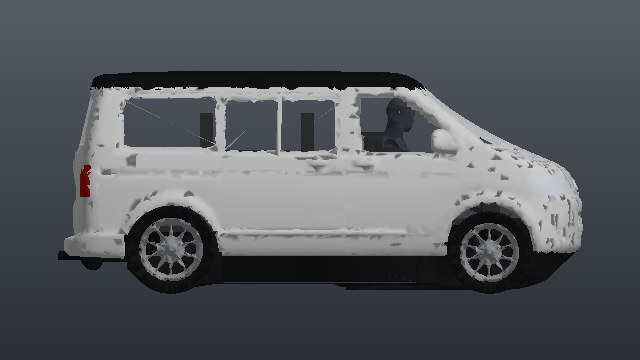
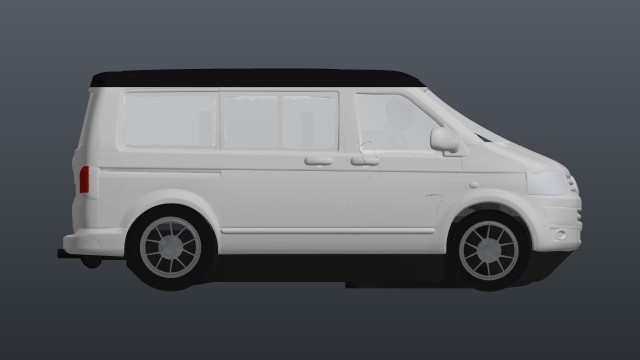
Vorschaubilder der Gnen54-Autos mit echter 3D-Grafik (WebGL) statt Python-Rasterer
Der Python-Zeichner (tools/vorschau_bilder.py) liess deckungsgleiche Lackschichten (rote/gelbe Streifen auf
weissem Lack) und doppelte Scheiben fleckig flimmern - am schlimmsten beim GT3 und Manta. Neues Werkzeug
tools/vorschau_webgl/ zeichnet mit Tiefenpuffer, Polygon-Offset fuer Streifen und vorderster Glasschicht.
Neu gezeichnet: GT3, Manta, Caravelle, Spider, Kaefer.

Claude-Session: https://claude.ai/code/session_017SRKzvNTXfApwRwuYV1rb8

diff --git a/tools/vorschau_webgl/render.html b/tools/vorschau_webgl/render.html
@@ -1,0 +1,97 @@
+<!doctype html><html><head><meta charset="utf-8">
+<!-- Fork (Gnen54, 23.11.2026): Vorschaubilder mit echter 3D-Grafik (WebGL2) statt des Python-Rasterers -
+     dort flimmerten deckungsgleiche Lackschichten (Streifen auf Lack) und doppelte Scheiben zu Flecken.
+     Aufruf: tools/vorschau_webgl/erzeugen.js (siehe dort). -->
+<style>html,body{margin:0;background:#000}canvas{display:block}</style></head><body>
+<canvas id="c" width="1280" height="720"></canvas>
+<script>
+const W = 1280, H = 720, RAND = 0.09;
+const L = norm([-0.62, 0.55, 0.42]), F = norm([0.55, 0.25, -0.3]), AMB = 0.42;
+function norm(v) { const l = Math.hypot(...v); return v.map((x) => x / l); }
+async function bild(url) { const i = new Image(); i.src = url; await i.decode(); return i; }
+async function zeichne(auto) {
+  const pfad = '../../img/autos/' + auto + '/';
+  const meta = await (await fetch(pfad + 'auto.json', { cache: 'no-cache' })).json();
+  const bin = await (await fetch(pfad + 'auto.bin', { cache: 'no-cache' })).arrayBuffer();
+  const ecken = new Float32Array(bin, 0, meta.ecken * 8);
+  const gl = document.getElementById('c').getContext('webgl2', { antialias: true, preserveDrawingBuffer: true });
+  const vs = `#version 300 es
+  in vec3 p; in vec3 n; in vec2 uv; uniform vec3 sk; uniform vec3 ve; uniform vec4 fr; uniform vec2 tz;
+  out vec3 vn; out vec2 vuv;
+  void main(){ vec3 q = p * sk + ve; vn = n * sign(sk);
+    float sx = fr.x + fr.z * q.z, sy = fr.y - fr.z * q.y;
+    gl_Position = vec4(sx / ${W}.0 * 2.0 - 1.0, 1.0 - sy / ${H}.0 * 2.0, (q.x - tz.x) / (tz.y - tz.x) * 2.0 - 1.0, 1.0); vuv = uv; }`;
+  const fs = `#version 300 es
+  precision highp float; in vec3 vn; in vec2 vuv; uniform sampler2D tx; uniform float glas; out vec4 o;
+  void main(){ vec3 nn = normalize(vn); if (!gl_FrontFacing) nn = -nn;
+    // Kamera schaut entlang +x: Flaechen, die von der Kamera weg zeigen, zweiseitig beleuchten
+    float li = ${AMB} + ${1 - AMB} * (0.78 * max(dot(nn, vec3(${L})), 0.0) + 0.22 * max(dot(nn, vec3(${F})), 0.0));
+    vec4 t = texture(tx, vuv); o = vec4(t.rgb * li, glas > 0.5 ? t.a * 0.85 : 1.0); }`;
+  const sh = (typ, src) => { const s = gl.createShader(typ); gl.shaderSource(s, src); gl.compileShader(s); if (!gl.getShaderParameter(s, gl.COMPILE_STATUS)) throw new Error(gl.getShaderInfoLog(s)); return s; };
+  const pr = gl.createProgram(); gl.attachShader(pr, sh(gl.VERTEX_SHADER, vs)); gl.attachShader(pr, sh(gl.FRAGMENT_SHADER, fs)); gl.linkProgram(pr); gl.useProgram(pr);
+  const U = (k) => gl.getUniformLocation(pr, k), A = (k) => gl.getAttribLocation(pr, k);
+  const vbo = gl.createBuffer(); gl.bindBuffer(gl.ARRAY_BUFFER, vbo); gl.bufferData(gl.ARRAY_BUFFER, ecken, gl.STATIC_DRAW);
+  const ibo = gl.createBuffer(); gl.bindBuffer(gl.ELEMENT_ARRAY_BUFFER, ibo); gl.bufferData(gl.ELEMENT_ARRAY_BUFFER, new Uint16Array(bin, meta.indexAb, meta.indizes), gl.STATIC_DRAW);
+  // Rahmen aus der Karosserie (ohne Raeder), wie tools/vorschau_bilder.py
+  let zmin = 1e9, zmax = -1e9, ymin = 1e9, ymax = -1e9, xmin = 1e9, xmax = -1e9;
+  for (const t of meta.teile) { if (t.gruppe === 'rad') continue;
+    for (let i = t.ecke0; i < t.ecke0 + t.ecken; i++) { const x = ecken[i * 8], y = ecken[i * 8 + 1], z = ecken[i * 8 + 2];
+      if (z < zmin) zmin = z; if (z > zmax) zmax = z; if (y < ymin) ymin = y; if (y > ymax) ymax = y; if (x < xmin) xmin = x; if (x > xmax) xmax = x; } }
+  ymin = Math.min(ymin, 0);
+  const dx = zmax - zmin, dy = ymax - ymin, s = Math.min(W * (1 - 2 * RAND) / dx, H * (1 - 2 * RAND) / dy);
+  gl.uniform4f(U('fr'), (W - s * dx) / 2 - s * zmin, (H - s * dy) / 2 + s * ymax, s, 0);
+  const tz = Math.max(Math.abs(xmin), Math.abs(xmax)) * 1.6 + 1; gl.uniform2f(U('tz'), -tz, tz);
+  const tex = {};
+  for (const t of meta.teile) if (!tex[t.tex]) {
+    const im = await bild(pfad + t.tex); const g = gl.createTexture(); gl.bindTexture(gl.TEXTURE_2D, g);
+    gl.texImage2D(gl.TEXTURE_2D, 0, gl.RGBA, gl.RGBA, gl.UNSIGNED_BYTE, im); gl.generateMipmap(gl.TEXTURE_2D);
+    gl.texParameteri(gl.TEXTURE_2D, gl.TEXTURE_MIN_FILTER, gl.LINEAR_MIPMAP_LINEAR); tex[t.tex] = g; }
+  gl.clearColor(0, 0, 0, 0); gl.clear(gl.COLOR_BUFFER_BIT | gl.DEPTH_BUFFER_BIT);
+  gl.enable(gl.DEPTH_TEST); gl.depthFunc(gl.LEQUAL); gl.disable(gl.CULL_FACE);
+  const ap = A('p'), an = A('n'), au = A('uv');
+  [ap, an, au].forEach((a) => gl.enableVertexAttribArray(a));
+  // Hauptlack = Textur mit den meisten Karosserie-Dreiecken; andere Karosserie-Teile (Streifen, Lackierung)
+  // liegen oft deckungsgleich darauf: etwas nach vorn schieben (Polygon-Offset), sonst flimmert es fleckig.
+  const zaehl = {}; meta.teile.forEach((t) => { if (t.rolle === 'karosserie') zaehl[t.tex] = (zaehl[t.tex] || 0) + t.indizes; });
+  const haupt = Object.keys(zaehl).sort((a, b) => zaehl[b] - zaehl[a])[0];
+  const teil = (t, sk, ve, glas) => {
+    gl.vertexAttribPointer(ap, 3, gl.FLOAT, false, 32, t.ecke0 * 32);
+    gl.vertexAttribPointer(an, 3, gl.FLOAT, false, 32, t.ecke0 * 32 + 12);
+    gl.vertexAttribPointer(au, 2, gl.FLOAT, false, 32, t.ecke0 * 32 + 24);
+    gl.bindTexture(gl.TEXTURE_2D, tex[t.tex]); gl.uniform1f(U('glas'), glas ? 1 : 0);
+    gl.uniform3f(U('sk'), ...sk); gl.uniform3f(U('ve'), ...ve);
+    gl.drawElements(gl.TRIANGLES, t.indizes, gl.UNSIGNED_SHORT, t.index0 * 2);
+  };
+  const glasR = (t) => t.rolle === 'glas' || t.rolle === 'scheinwerferglas';
+  for (const t of meta.teile) {
+    if (t.gruppe === 'rad' || glasR(t)) continue;
+    const deko = t.tex !== haupt;
+    if (deko) { gl.enable(gl.POLYGON_OFFSET_FILL); gl.polygonOffset(-2, -8); } else gl.disable(gl.POLYGON_OFFSET_FILL);
+    teil(t, [1, 1, 1], [0, 0, 0], false);
+  }
+  gl.disable(gl.POLYGON_OFFSET_FILL);
+  // Raeder wie im Spiel und im Python-Werkzeug: Einheitsrad skaliert und an die Achsen gesetzt.
+  const ph = meta.physik, achs = { vorn: ph.vorderachse, hinten: ph.hinterachse };
+  for (const seite of [-1, 1]) for (const ax of ['vorn', 'hinten']) {
+    const r = ph.reifen[ax];
+    for (const t of meta.teile) { if (t.gruppe !== 'rad' || (t.achse && t.achse !== ax)) continue;
+      teil(t, [seite * r.breite, 2 * r.radius, 2 * r.radius], [seite * r.spur / 2, r.radius, achs[ax]], false); }
+  }
+  // Glas: erst nur die Tiefe (die vorderste Scheibenschicht), dann die Farbe genau dieser Schicht -
+  // sonst ueberlagern sich Innen- und Aussenhaut der Scheibe zu Rauschen.
+  gl.colorMask(false, false, false, false);
+  for (const t of meta.teile) if (glasR(t)) teil(t, [1, 1, 1], [0, 0, 0], true);
+  gl.colorMask(true, true, true, true); gl.depthFunc(gl.EQUAL); gl.depthMask(false);
+  gl.enable(gl.BLEND); gl.blendFunc(gl.SRC_ALPHA, gl.ONE_MINUS_SRC_ALPHA);
+  for (const t of meta.teile) if (glasR(t)) teil(t, [1, 1, 1], [0, 0, 0], true);
+  gl.finish();
+  // Auf den Verlauf wie tools/vorschau_bilder.py legen und auf 640 x 360 verkleinern (JPEG).
+  const k2 = document.createElement('canvas'); k2.width = 640; k2.height = 360;
+  const c2 = k2.getContext('2d'), v = c2.createLinearGradient(0, 0, 0, 360);
+  v.addColorStop(0, 'rgb(86,92,100)'); v.addColorStop(1, 'rgb(44,48,54)');
+  c2.fillStyle = v; c2.fillRect(0, 0, 640, 360);
+  c2.imageSmoothingQuality = 'high'; c2.drawImage(gl.canvas, 0, 0, 640, 360);
+  return k2.toDataURL('image/jpeg', 0.9);
+}
+window.zeichne = zeichne;
+</script></body></html>

diff --git a/tools/vorschau_webgl/erzeugen.js b/tools/vorschau_webgl/erzeugen.js
@@ -1,0 +1,21 @@
+// Fork (Gnen54, 23.11.2026): Garagen-Vorschaubilder img/autos/<auto>/vorschau.jpg mit WebGL zeichnen.
+// Aufruf aus dem Repo-Wurzelverzeichnis:
+//   python3 -m http.server 8790 &      (Server im Repo-Wurzelverzeichnis)
+//   node tools/vorschau_webgl/erzeugen.js gt3 manta caravelle spider kaefer
+// Braucht Playwright mit Chromium (Software-WebGL ueber SwiftShader reicht).
+const { chromium } = require('playwright');
+const fs = require('fs');
+const path = require('path');
+(async () => {
+  const b = await chromium.launch({ args: ['--use-angle=swiftshader', '--enable-unsafe-swiftshader', '--ignore-gpu-blocklist'] });
+  const p = await b.newPage({ viewport: { width: 1280, height: 720 } });
+  p.on('pageerror', (e) => console.log('Fehler:', e.message));
+  for (const a of process.argv.slice(2)) {
+    await p.goto('http://localhost:8790/tools/vorschau_webgl/render.html');
+    const url = await p.evaluate((x) => zeichne(x), a);
+    const ziel = path.join('img', 'autos', a, 'vorschau.jpg');
+    fs.writeFileSync(ziel, Buffer.from(url.split(',')[1], 'base64'));
+    console.log(a, '->', ziel);
+  }
+  await b.close();
+})();

diff --git a/FORK-EXTRAS.md b/FORK-EXTRAS.md
@@ -27,7 +27,7 @@ Stand: 23.11.2026 (auf Luukes 1.6.22). Vollständige alte Fassung: Zweig `sicher
 | Umgebungston (Ambience) ab Werk aus | `src/80-sound.js`, `id="amb-enable"` ohne checked | `let ambienceEnabled = false` |
 | Freigaben-Liste „Eigene Autos von Gnen54 und die Freigaben“ | `src/00-index.head.html` (Credits) | `Eigene Autos von Gnen54 und die Freigaben` |
 | Testfassung holt Seite/HTML/JSON mit no-cache | `tools/sw.js.in` | `cache: 'no-cache'` |
-| Vorschaubilder ohne Vereinfachung (schärfer) | `img/autos/{caravelle,spider,gt3,manta,kaefer}/vorschau.jpg` | neu zeichnen mit `tools/vorschau_bilder.py`, dabei `REDUZIERE_ZIEL` sehr hoch setzen (nur für den Lauf) |
+| Vorschaubilder mit echter 3D-Grafik (WebGL) | `img/autos/{caravelle,spider,gt3,manta,kaefer}/vorschau.jpg`, Werkzeug `tools/vorschau_webgl/` | `function zeichne(auto)` in `tools/vorschau_webgl/render.html`; neue oder geänderte Modelle damit neu zeichnen (`python3 -m http.server 8790` im Repo, dann `node tools/vorschau_webgl/erzeugen.js <autos>`), NICHT mit `tools/vorschau_bilder.py` (fleckig) |
 | Selbsttests Fork | `src/95-selftest.js` | `Performance laedt die leichte Fassung`, `auf Handy und Tablet nur Performance` |
 | Übersetzungen (EN/ES) aller Fork-Texte | `src/10-ble-explorer.js` | `Stein grau marmoriert`, `Opel Manta B400 (Gnen54, WIP)` |
 
